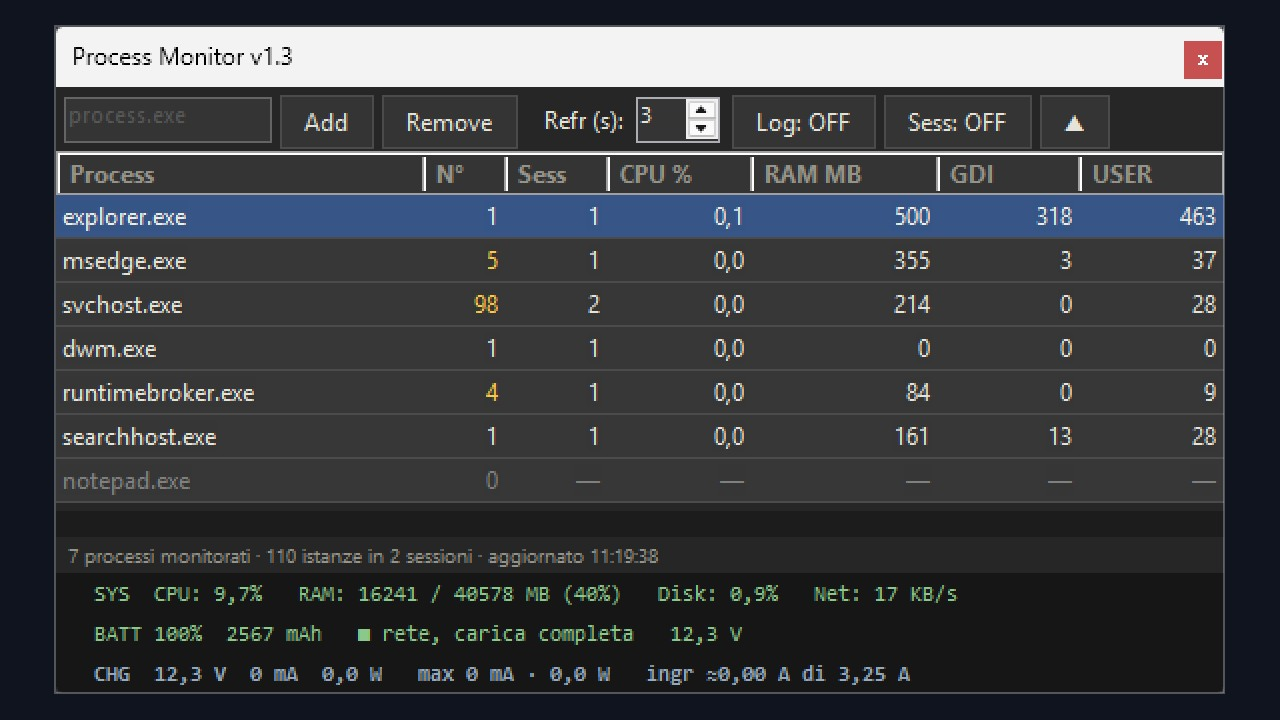
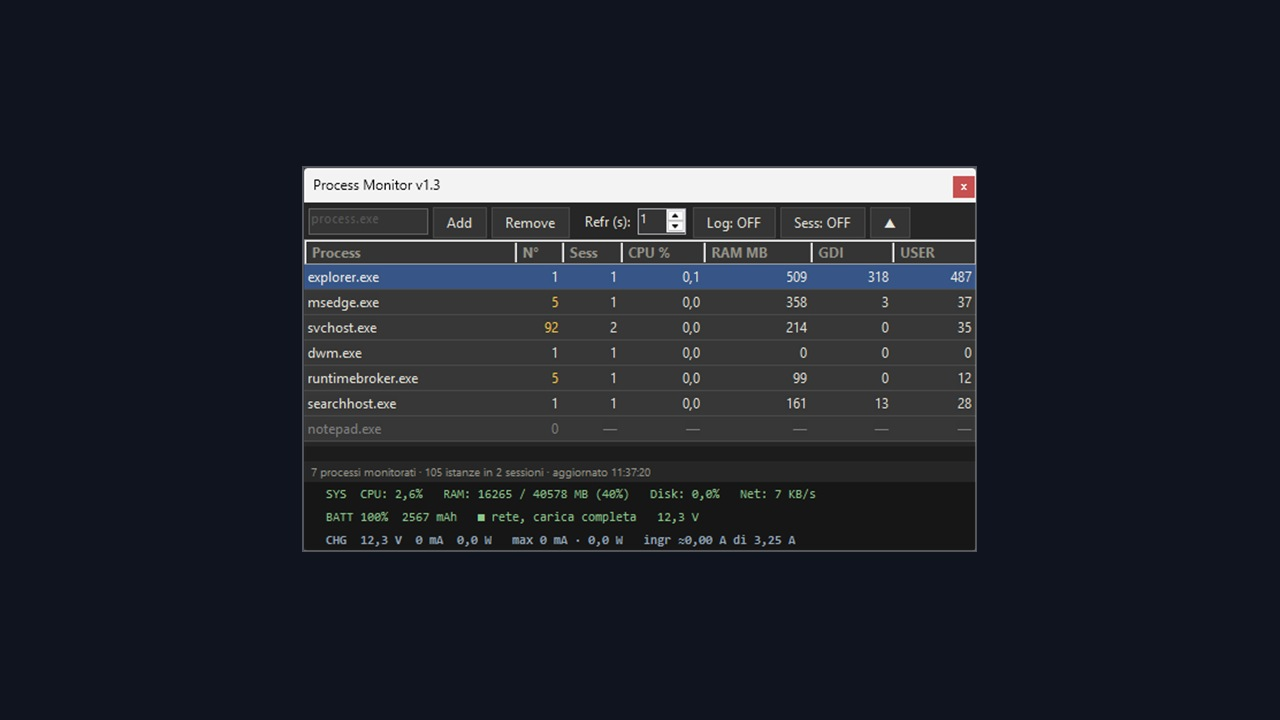
Process Monitor: scheda coricata come quella di Neon Stadium
La scheda prende la classe "grande", cosi' sugli schermi larghi si corica
con l'immagine a sinistra e il testo a destra.

In quella disposizione la scheda ritaglia i lati dell'immagine (fino a 309
px per lato intorno ai 1000 px di finestra, dove la griglia passa a tre
colonne), quindi l'anteprima e' rifatta con la finestra piu' piccola e
centrata, dentro la zona che sopravvive al ritaglio a ogni larghezza.
La pagina del progetto, che invece mostra tutto il file, ritaglia il
banner a 5/4 per conto suo cosi' la finestra non galleggia nel vuoto.

diff --git a/process-monitor/index.html b/process-monitor/index.html
@@ -14,7 +14,11 @@
   .su { font-size: 14px; }
   h1 { font-size: 40px; margin: 18px 0 2px; color: #ff4fd8; font-style: italic; letter-spacing: 1px; }
   .sub { color: #b0bec5; margin: 10px 0 22px; font-size: 15px; }
-  img.banner { width: 100%; height: auto; border-radius: 12px; border: 2px solid var(--line); display: block; }
+  /* l'immagine e' 16:9 con la finestra al centro e margini larghi, perche' la scheda
+     della pagina d'ingresso ne ritaglia i lati: qui la ritagliamo a nostra volta, piu'
+     stretta, cosi' la finestra riempie il banner invece di galleggiare nel vuoto */
+  img.banner { width: 100%; aspect-ratio: 5 / 4; object-fit: cover; height: auto;
+    border-radius: 12px; border: 2px solid var(--line); display: block; }
   a.dl { display: block; text-align: center; margin: 26px 0 10px; padding: 18px;
     background: #43a047; color: #fff; text-decoration: none; font-size: 22px; font-weight: bold;
     border-radius: 14px; border: 3px solid rgba(0,0,0,0.45); box-shadow: 0 5px 0 rgba(0,0,0,0.4); }

diff --git a/index.html b/index.html
@@ -135,7 +135,7 @@
       <p class="intro" data-it="Piccoli programmi utili." data-en="Small useful programs.">Piccoli programmi utili.</p>
       <div class="griglia">
 
-        <article class="card">
+        <article class="card grande">
           <img src="process-monitor/anteprima.jpg" alt="Process Monitor" width="1280" height="720">
           <div class="corpo">
             <h3>Process Monitor</h3>
